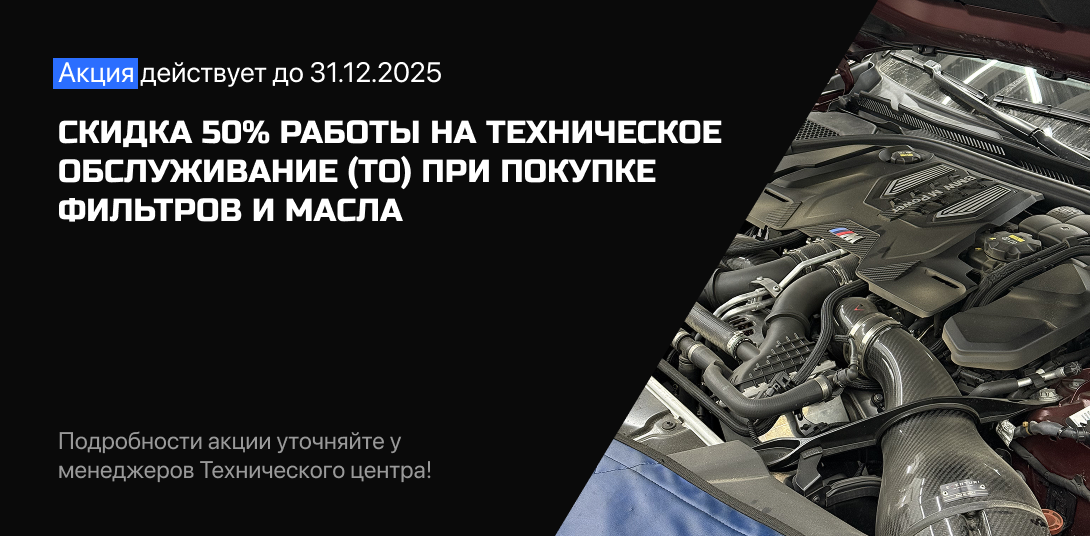
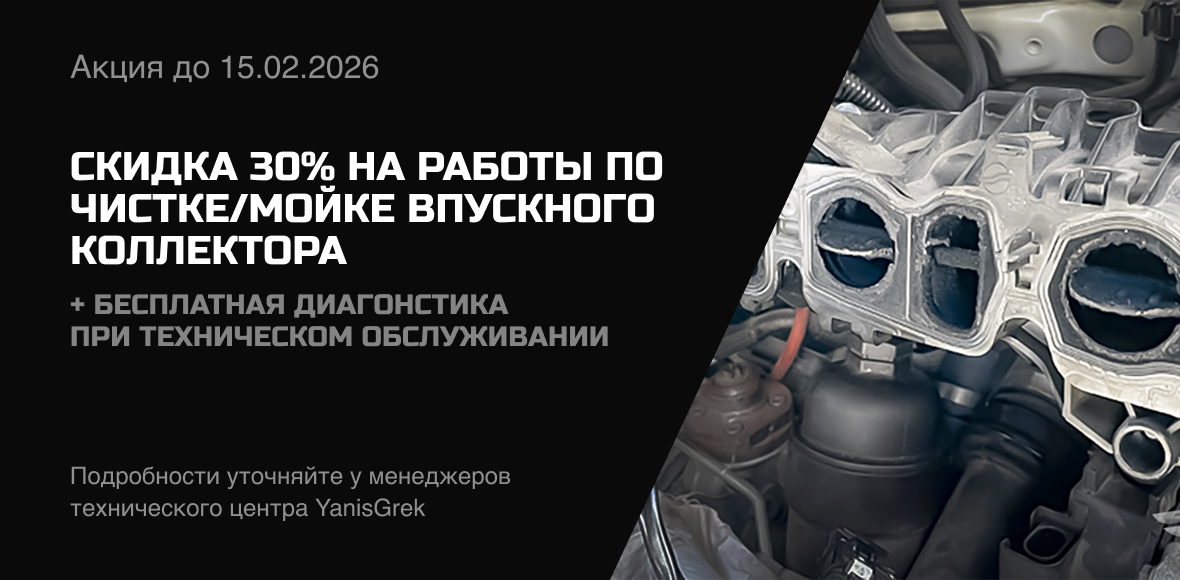
discounts update

diff --git a/code/src/components/Discounts/Discounts.jsx b/code/src/components/Discounts/Discounts.jsx
@@ -8,21 +8,15 @@ export default function Discounts() {
   const discounts = [
     {
       id: 1,
-      title: "Скидка 50% работы на тех. обслуживание (ТО) при покупке фильтров и масла*",
-      description: "Акция действует до 31.12.2025. Подробности акции уточняйте у менеджеров Технического центра!",
+      title: "Скидка 30% на работы по чистке/мойке впускного коллектора*",
+      description: "Акция действует до 15.02.2026. Подробности акции уточняйте у менеджеров Технического центра!",
       image: "/images/banner1.png"
     },
     {
       id: 2,
-      title: "Скидка 30% на замену тормозной жидкости*",
-      description: "Акция действует до 31.12.2025. Подробности акции уточняйте у менеджеров Технического центра!",
+      title: "Скидка 30% на работы по чистке/мойке впускного коллектора*",
+      description: "Акция действует до 15.02.2026. Подробности акции уточняйте у менеджеров Технического центра!",
       image: "/images/banner2.png"
-    },
-    {
-      id: 3,
-      title: "Скидка 30% на работы по замене масла в АКПП и агрегатах*",
-      description: "Акция действует до 31.12.2025. Подробности акции уточняйте у менеджеров Технического центра!",
-      image: "/images/banner3.png"
     },
   ];
 
